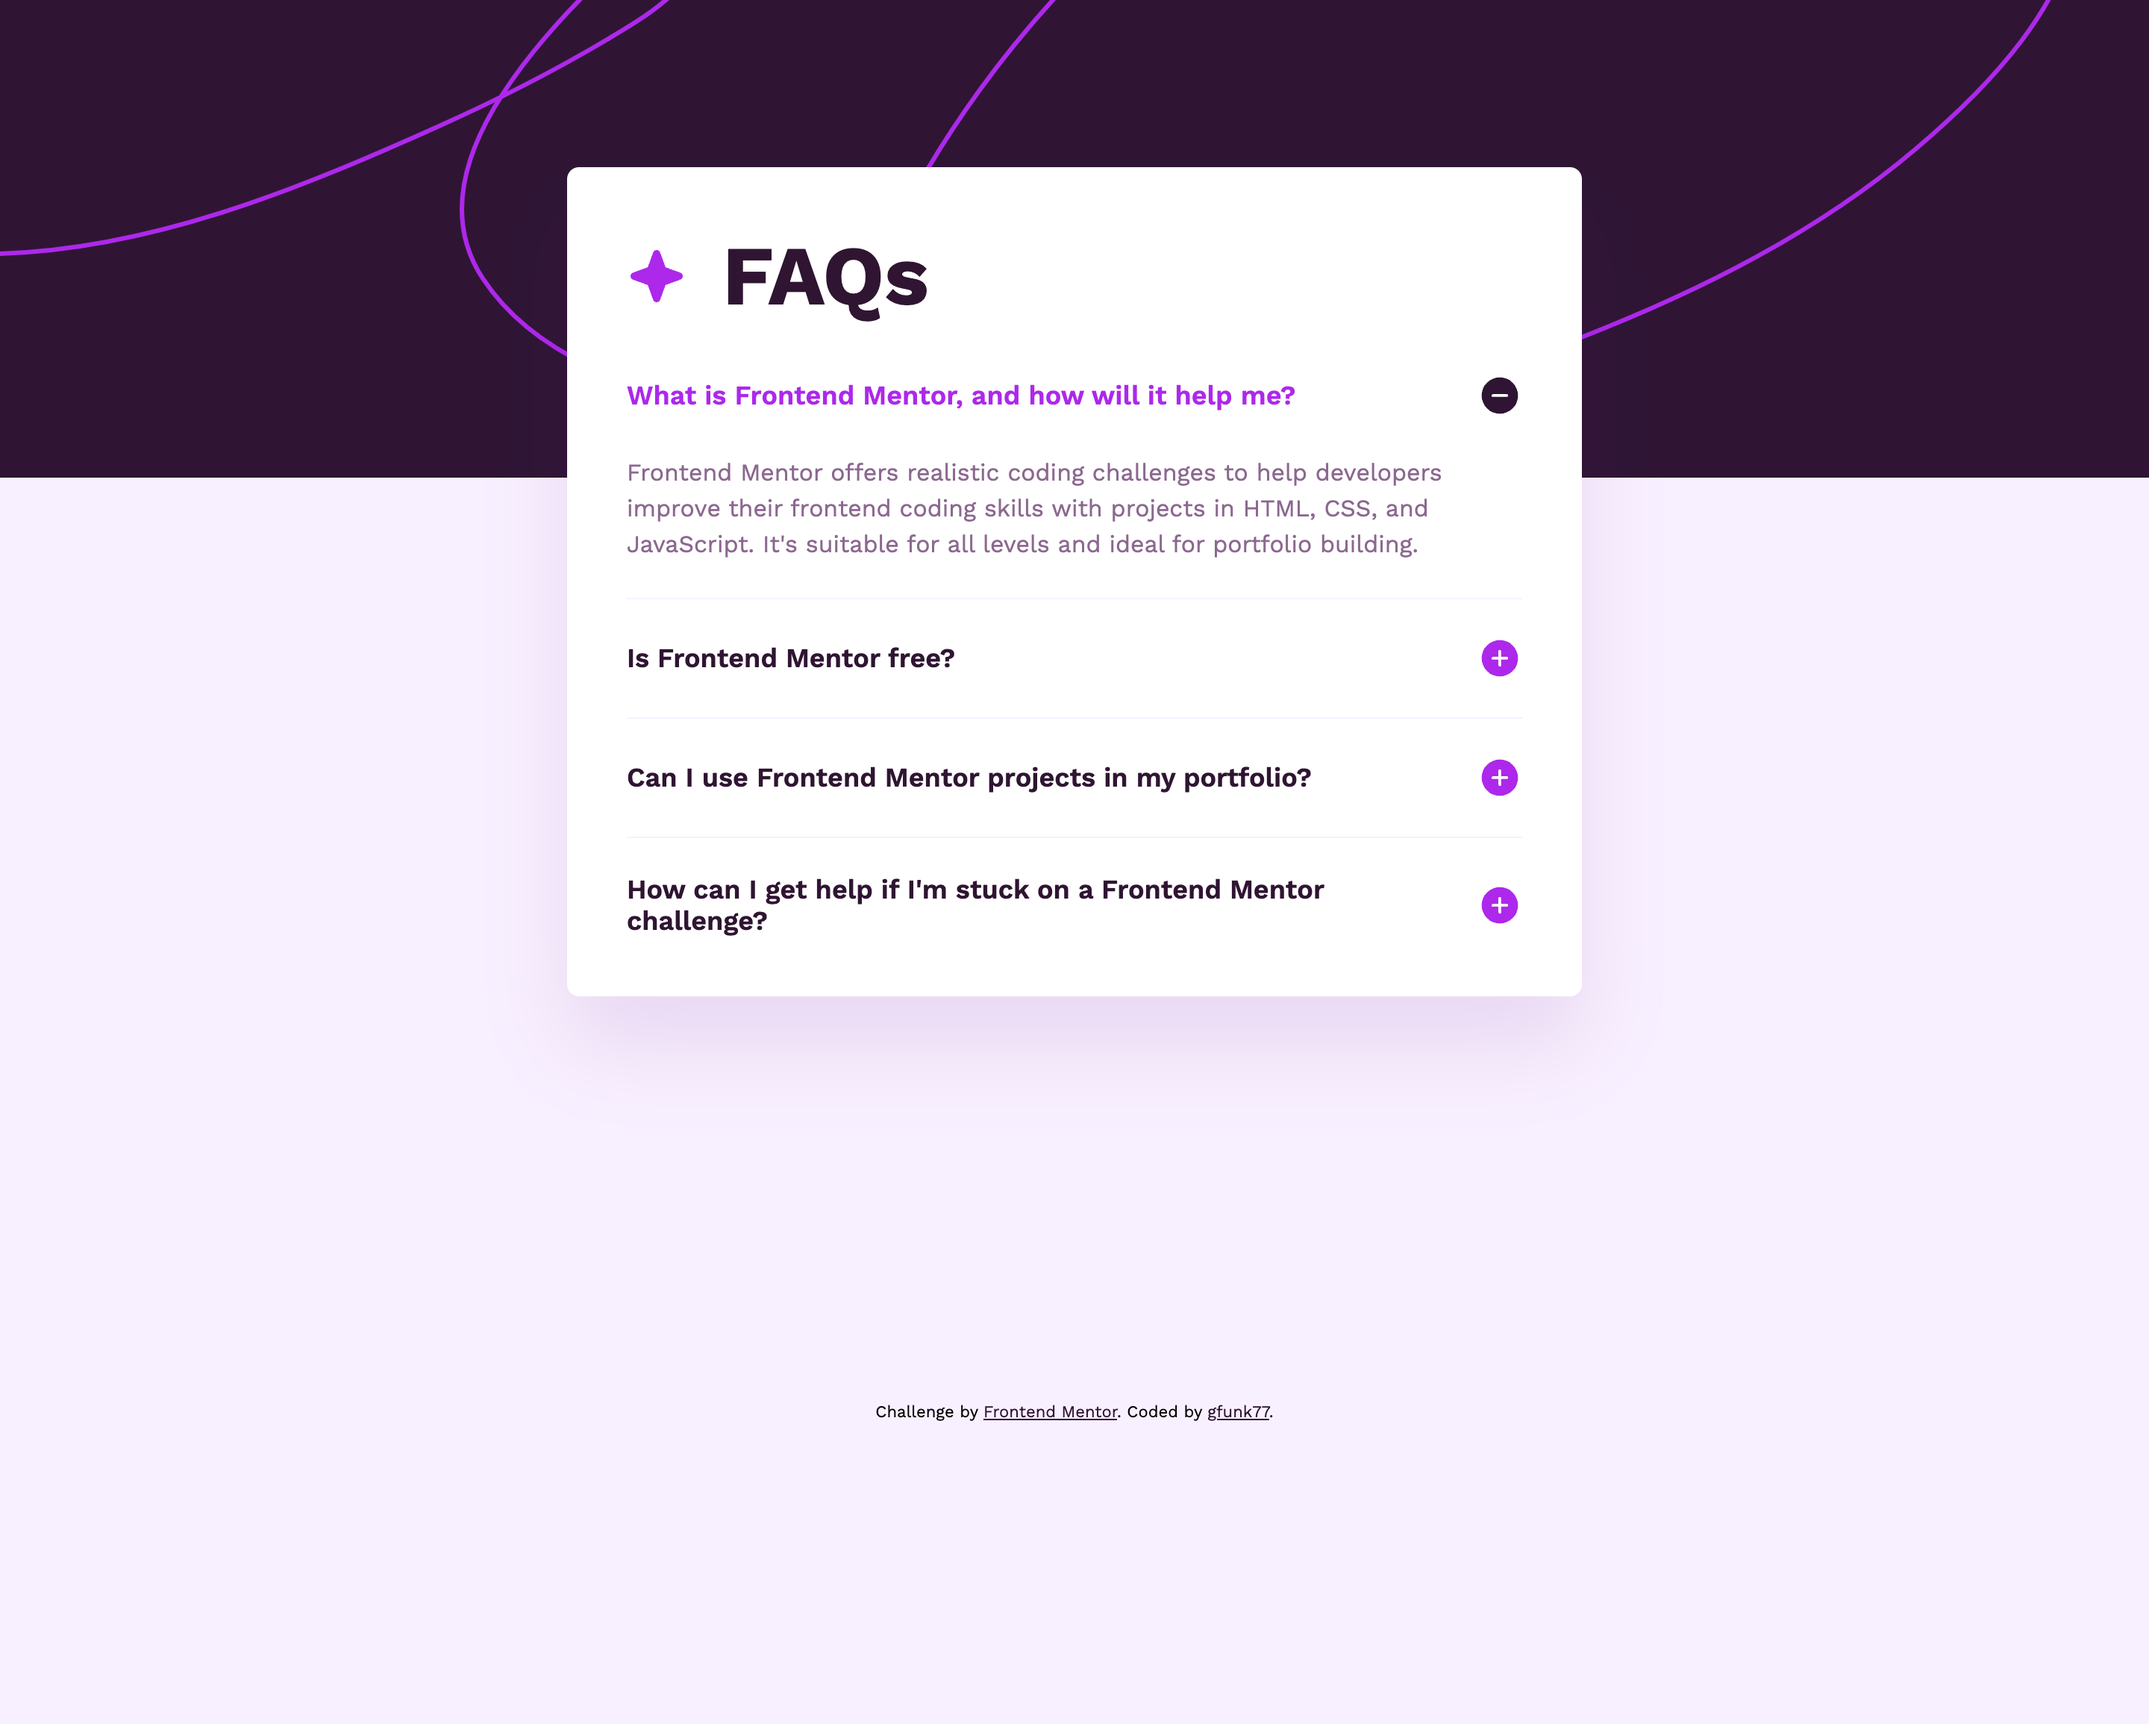
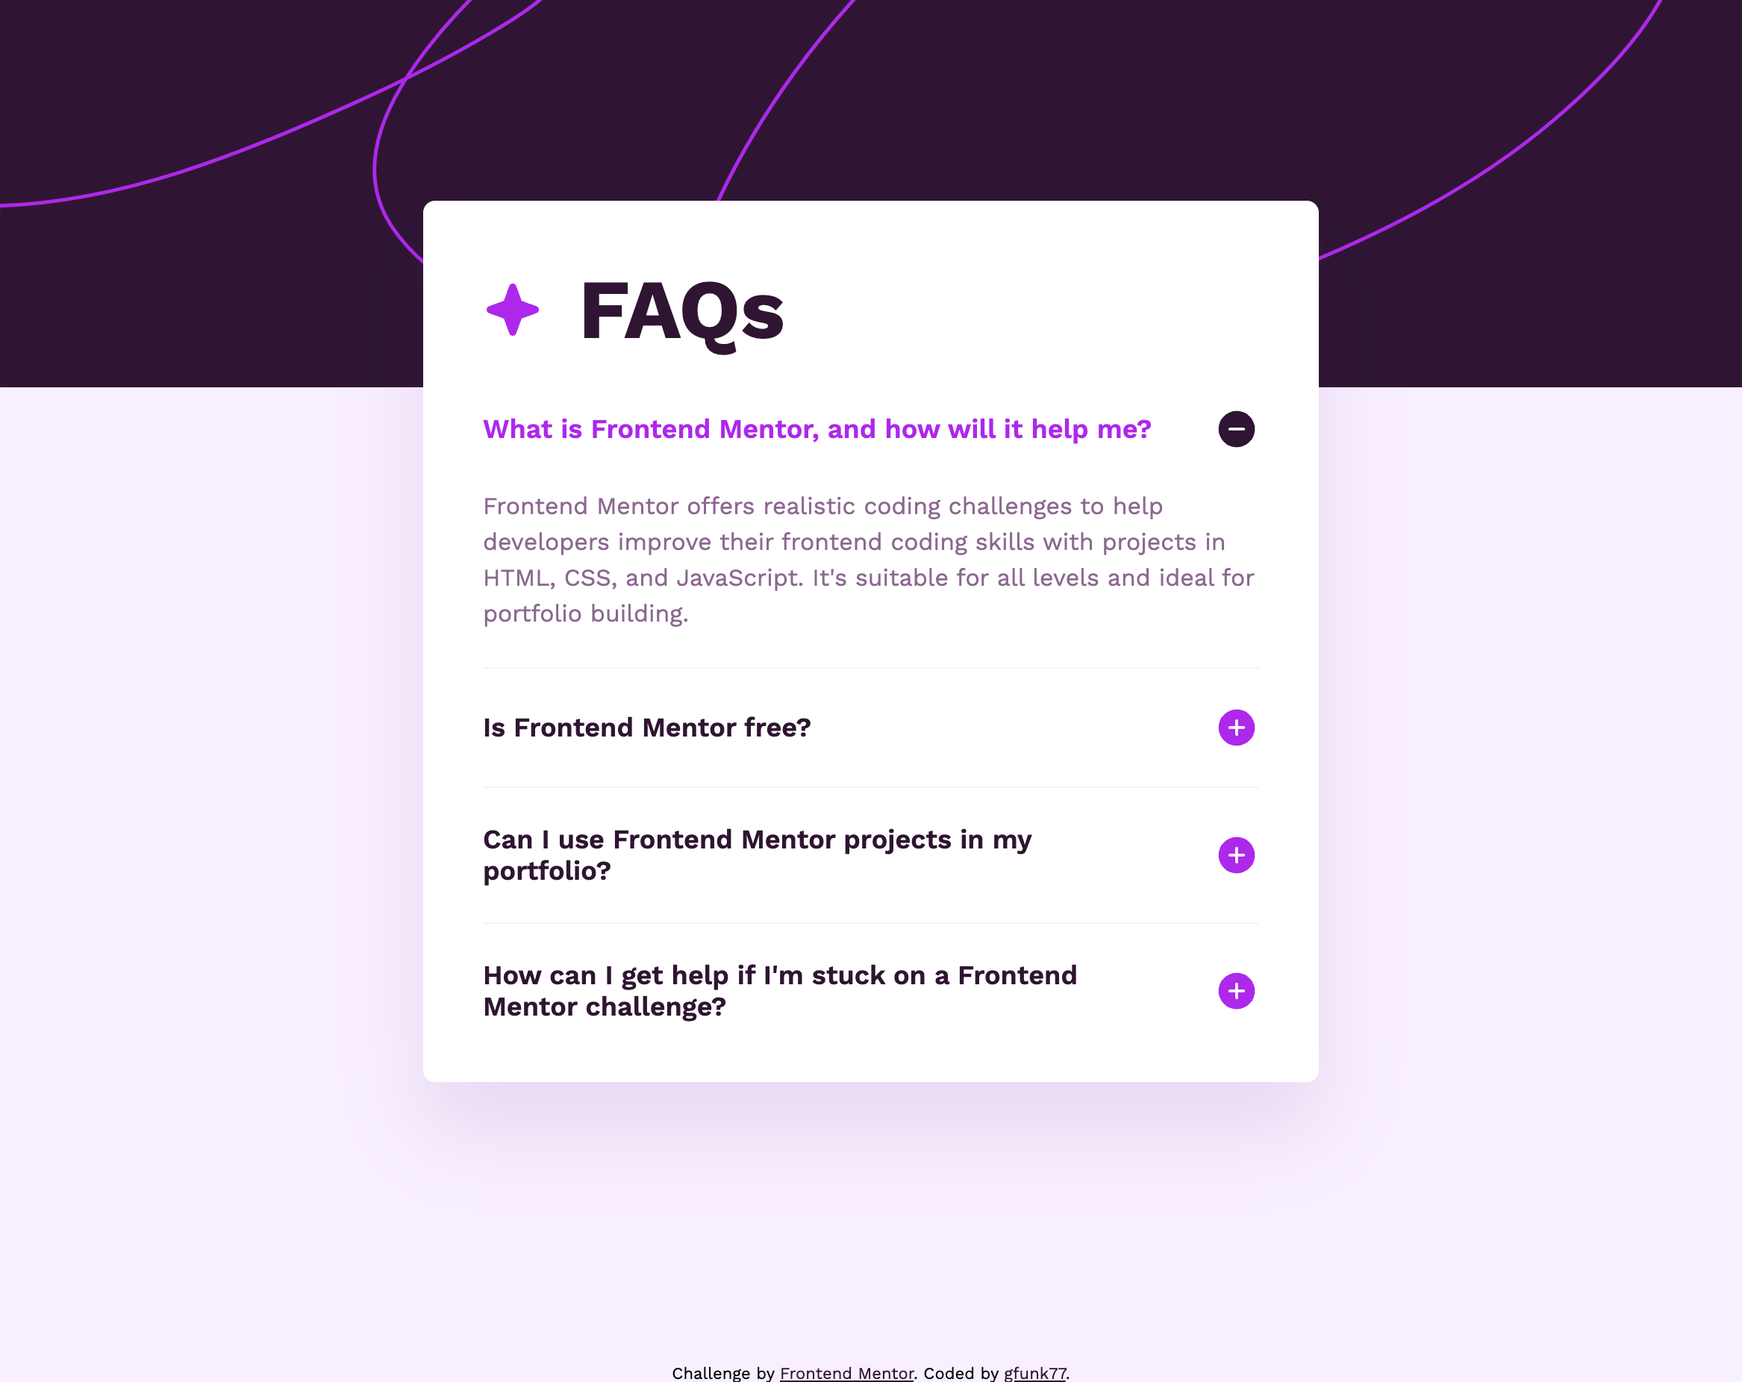
replace screenshot, increase card width

diff --git a/faq-accordion/src/app.js b/faq-accordion/src/app.js
@@ -15,7 +15,7 @@ const DATA = [
       "Yes, you can use projects completed on Frontend Mentor in your portfolio. It's an excellent way to showcase your skills to potential employers!",
   },
   {
-    question: "How can I get help if I'm stuck on a Frontend Mentor challenge?",
+    question: "How can I get help if I'm stuck on a challenge?",
     answer:
       "The best place to get help is inside Frontend Mentor's Discord community. There's a help channel where you can ask questions and seek support from other community members.",
   },

diff --git a/faq-accordion/src/scss/main.scss b/faq-accordion/src/scss/main.scss
@@ -7,7 +7,7 @@
 }
 
 .card {
-  width: 77%;
+  width: 85%;
   max-width: 600px;
   background-color: #fff;
   border-radius: 8px;
